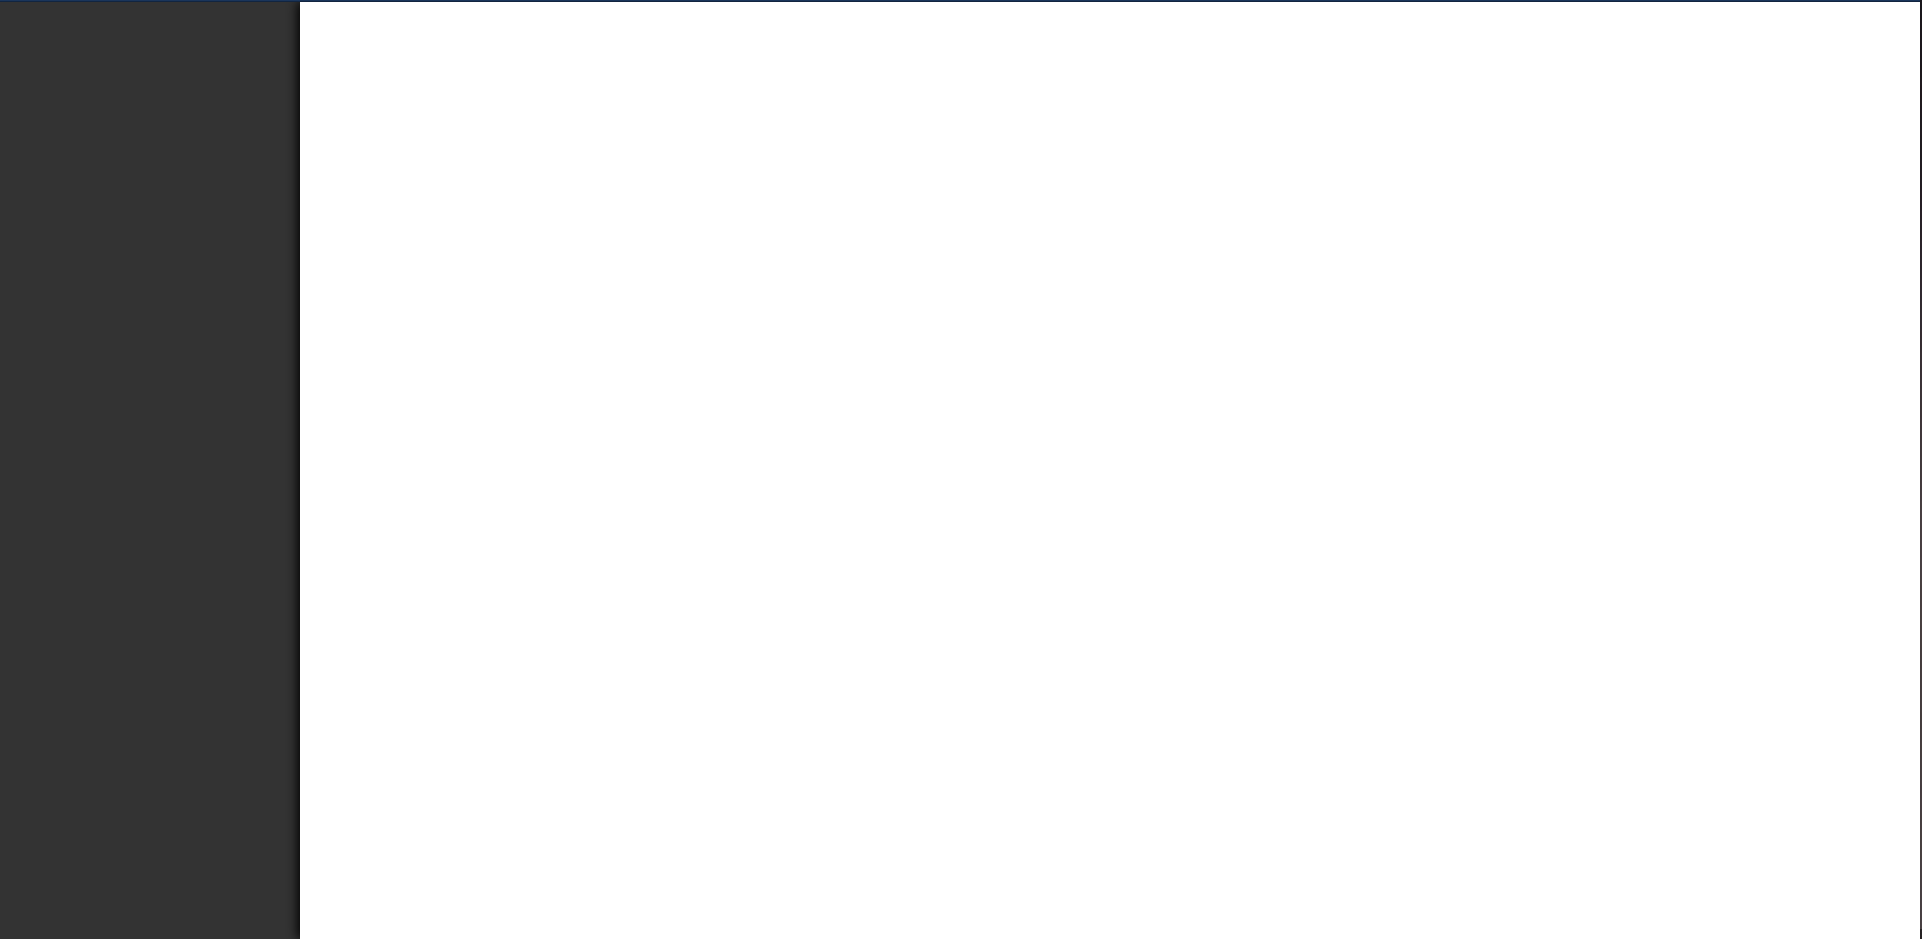
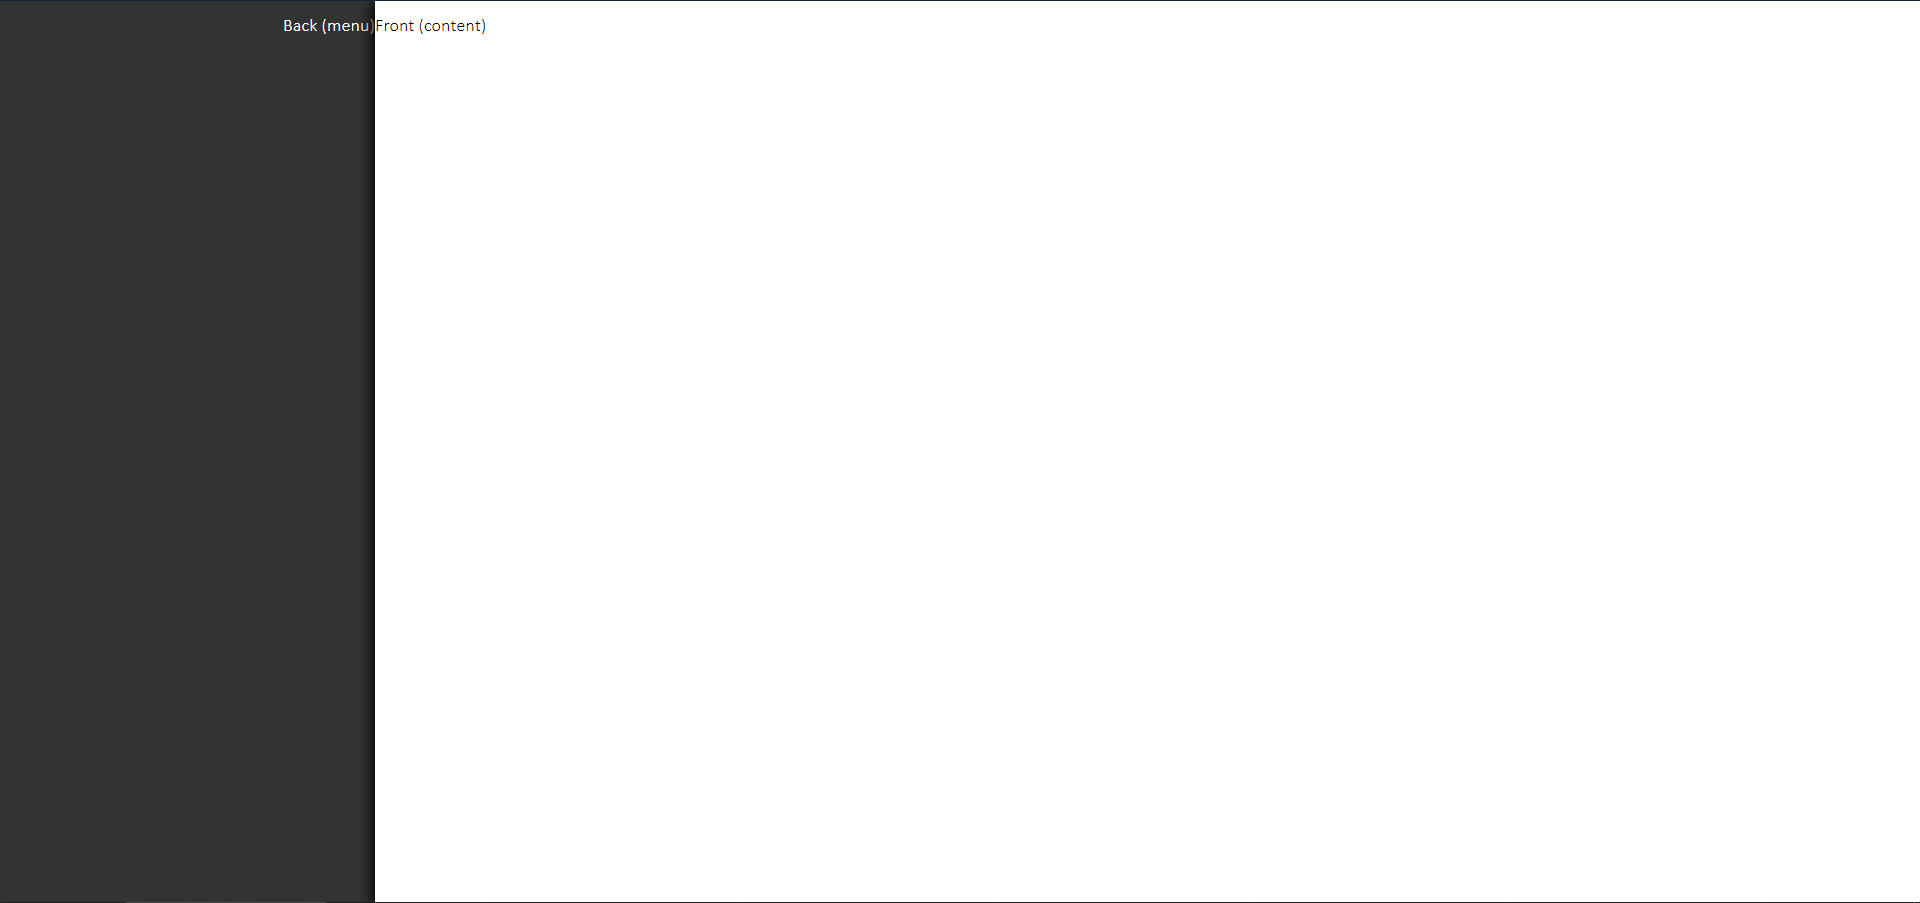
Added header documentation in README.md

Changed region(s): [[0.0625, 0.0, 1.0, 1.0], [0.9688, 0.0, 1.0, 0.031]]

diff --git a/example.html b/example.html
@@ -12,10 +12,30 @@
 </head>
 <body>
     <div class="bw-back">
-
+        <div class="bw-back-container">
+            <div class='bw-header'>
+                <button class="bw-action">
+                    <span class="fas fa-times"></span>
+                </button>
+                <button class='bw-action'>
+                    <span class='fas fa-check'></span>
+                </button>
+                <h1 class='bw-title'>Example Header</h1>
+            </div>
+        </div>
     </div>
     <div class="bw-front">
-
+        <div class="bw-front-container">
+            <div class='bw-header'>
+                <h1 class='bw-title'>Example Header</h1>
+                <button class='bw-action'>
+                    <span class='fas fa-check'></span>
+                </button>
+                <button class="bw-action">
+                    <span class="fas fa-times"></span>
+                </button>
+            </div>
+        </div>
     </div>
 </body>
 </html>

diff --git a/README.md b/README.md
@@ -27,25 +27,48 @@ The core of this design is the back panel (appearing on the right on desktop, an
 These panels are created with `<div class='bw-back'>` and `<div class='bw-front>` respectively.
 
 ```html
-<div class='bw-back'>
-    <!-- ... menu -->
-</div>
-<div class='bw-front'>
-    <!-- ... content -->
-</div>
+<body>
+    <div class='bw-back'>
+        <p>Back (menu)</p>
+    </div>
+    <div class='bw-front'>
+        <p>Front (content)</p>
+    </div>
+</body>
 ```
 
-![Back Front Panel](./doc-images/back-front-panels.png)
+![Back Front Panels](./doc-images/back-front-panels.png)
+
+Wrap all the content in these panels with their appropriate containers to provide spacing.
+
+```html
+<body>
+    <div class='bw-back'>
+        <div class='bw-back-container'>
+            <p>Back (menu)</p>
+        </div>
+    </div>
+    <div class='bw-front'>
+        <div class='bw-front-container'>
+            <p>Front (content)</p>
+        </div>
+    </div>
+</body>
+```
+
+![Back Front Containers](./doc-images/back-front-containers.png)
 
 ### Headers
 
-Both the back and the front panel in the example have headers at the top. Headers have a title and a series of actions (usually icon buttons). The order of the html controls the order of the elements.
+Both the back and the front panel in the example have headers at the top. Headers have a title and a series of actions (usually icon buttons).
 
 Backwhite comes with fontawesome solid and brand icons. Use them just like you would in any other app.
 
+This is an example of a header in the front panel.
+
 ```html
 <div class='bw-header'>
-    <h1 class='bw-title'>Hello World</h1>
+    <h1 class='bw-title'>Example Header</h1>
     <button class='bw-action'>
         <span class='fas fa-check'></span>
     </button>
@@ -54,5 +77,24 @@ Backwhite comes with fontawesome solid and brand icons. Use them just like you w
     </button>
 </div>
 ```
+
+![Front Header](./doc-images/front-header.png)
+
+The order of the html controls the order of the elements. This is an example of a header in the back panel.
+
+```html
+<div class='bw-header'>
+    <button class="bw-action">
+        <span class="fas fa-times"></span>
+    </button>
+    <button class='bw-action'>
+        <span class='fas fa-check'></span>
+    </button>
+    <h1 class='bw-title'>Example Header</h1>
+</div>
+```
+
+![Back Header](./doc-images/back-header.png)
+
 
 _More content will be added soon_
